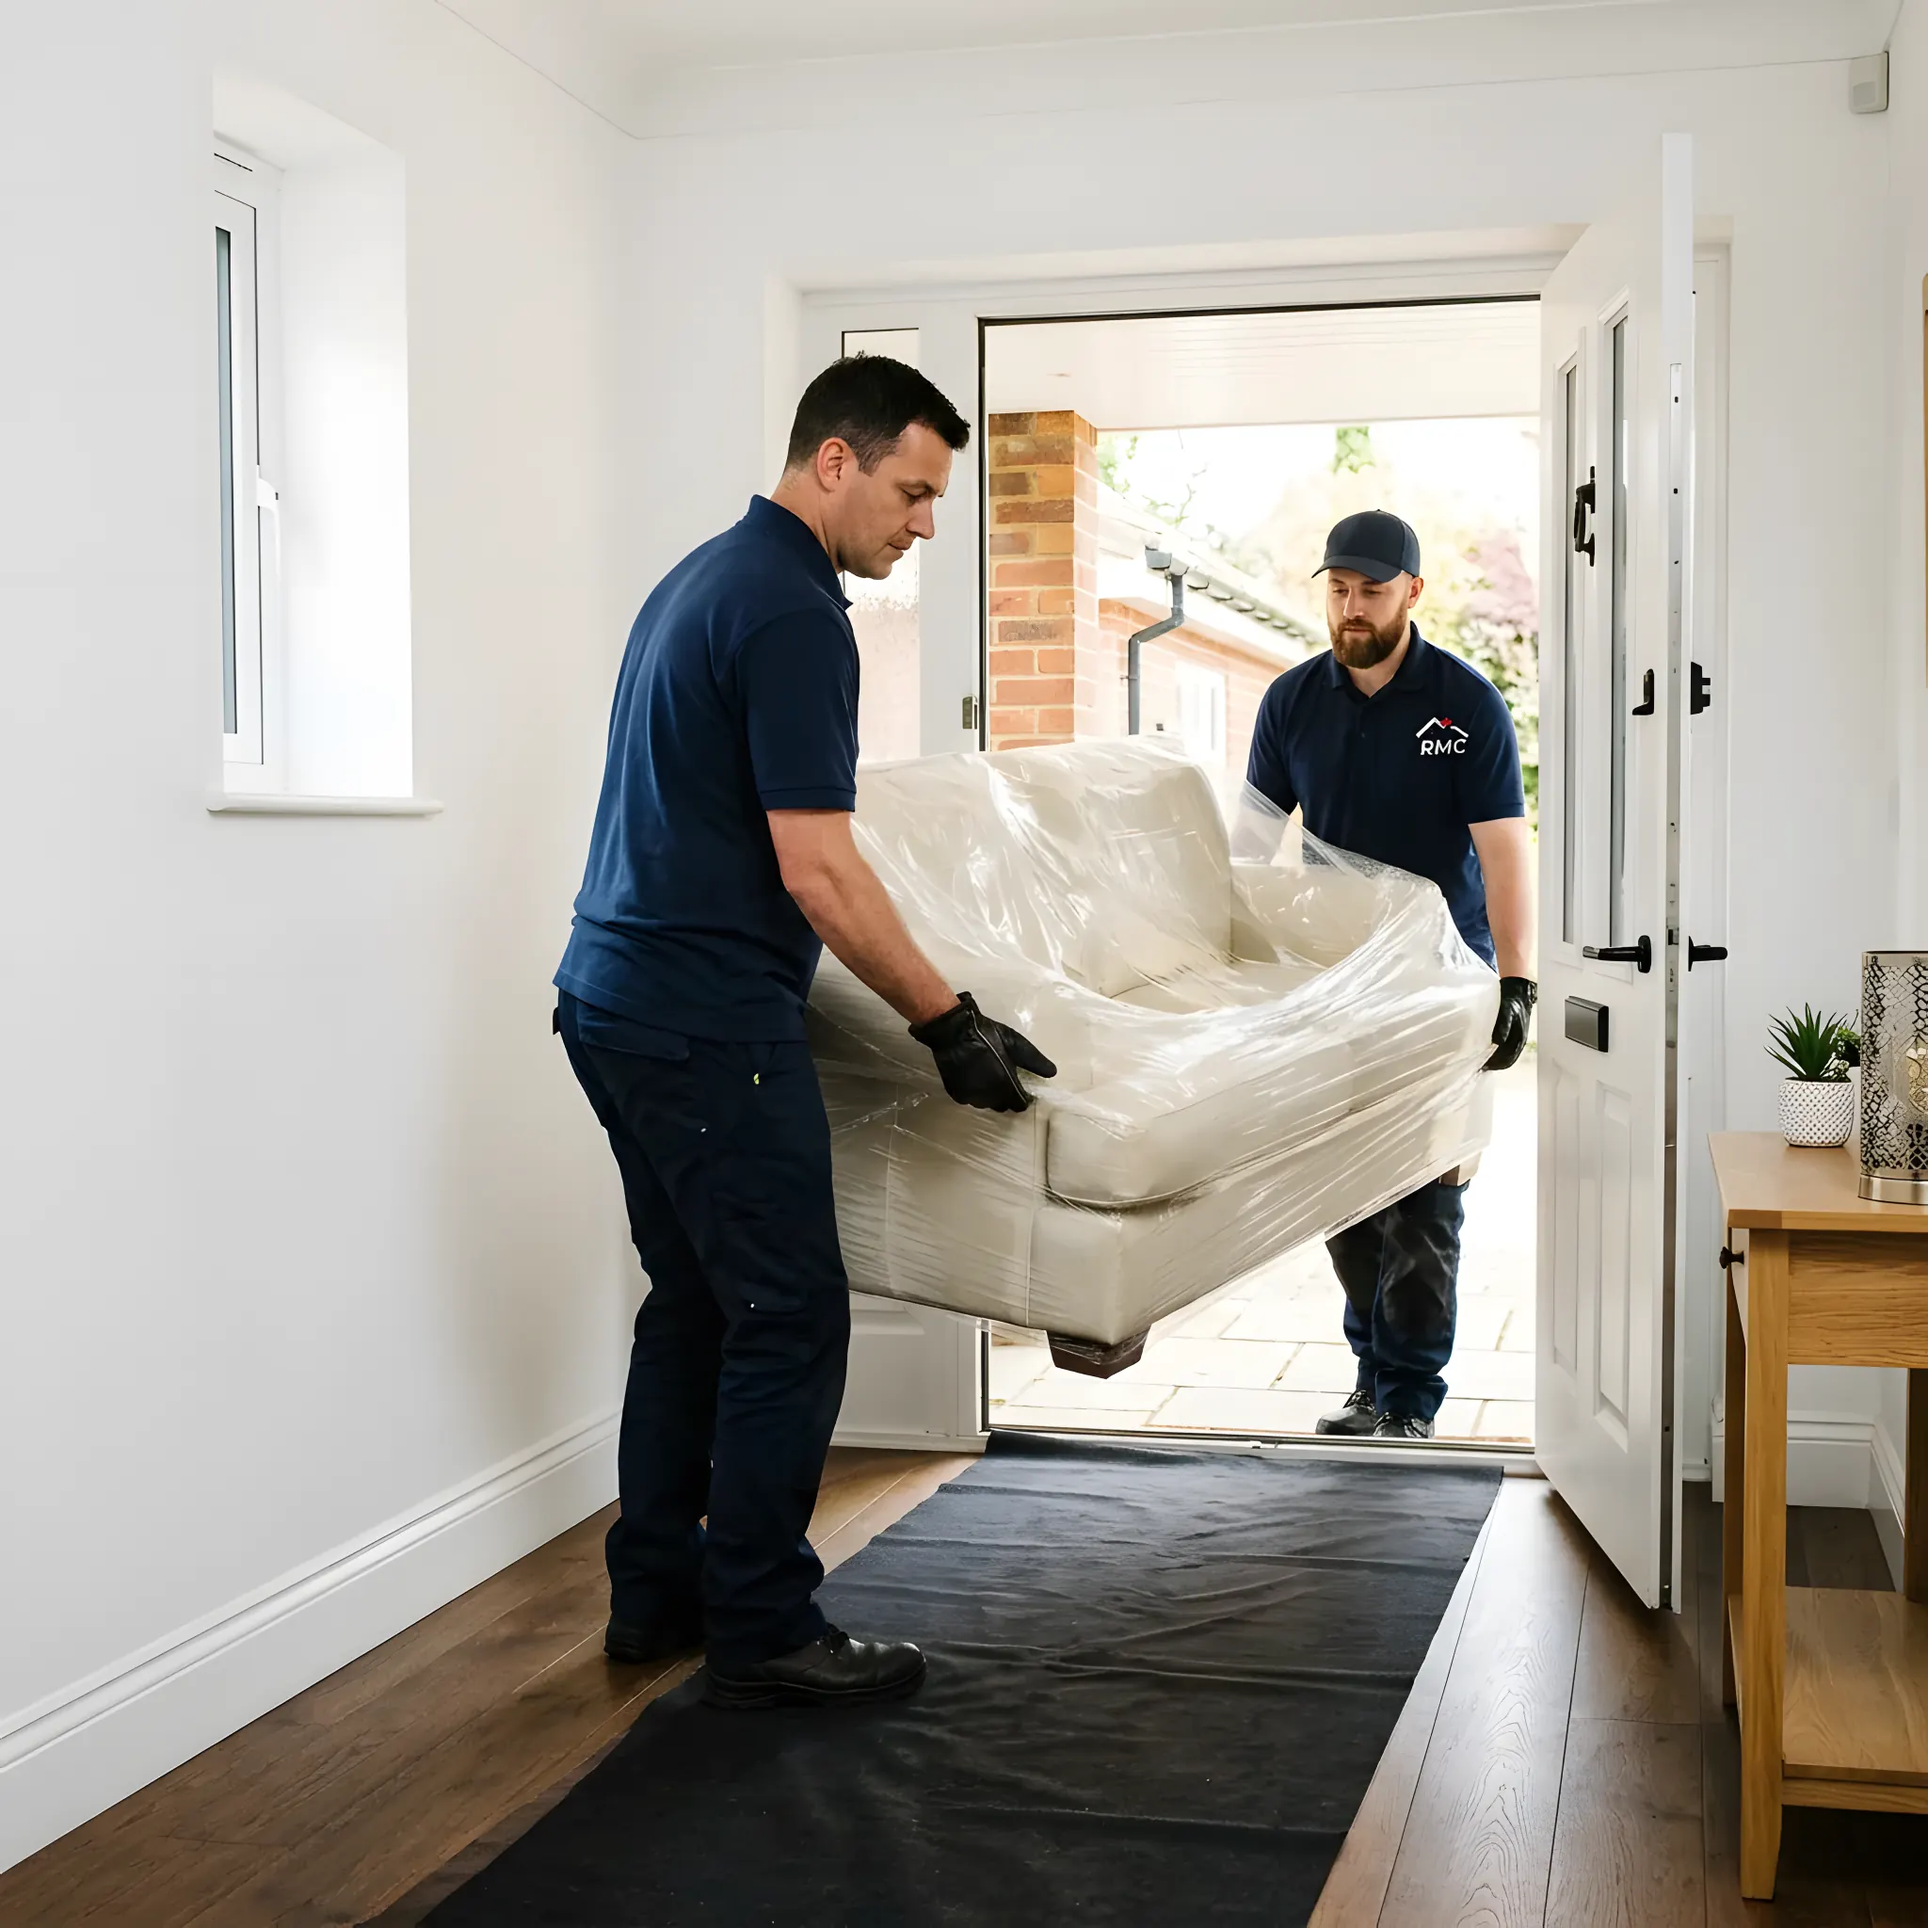
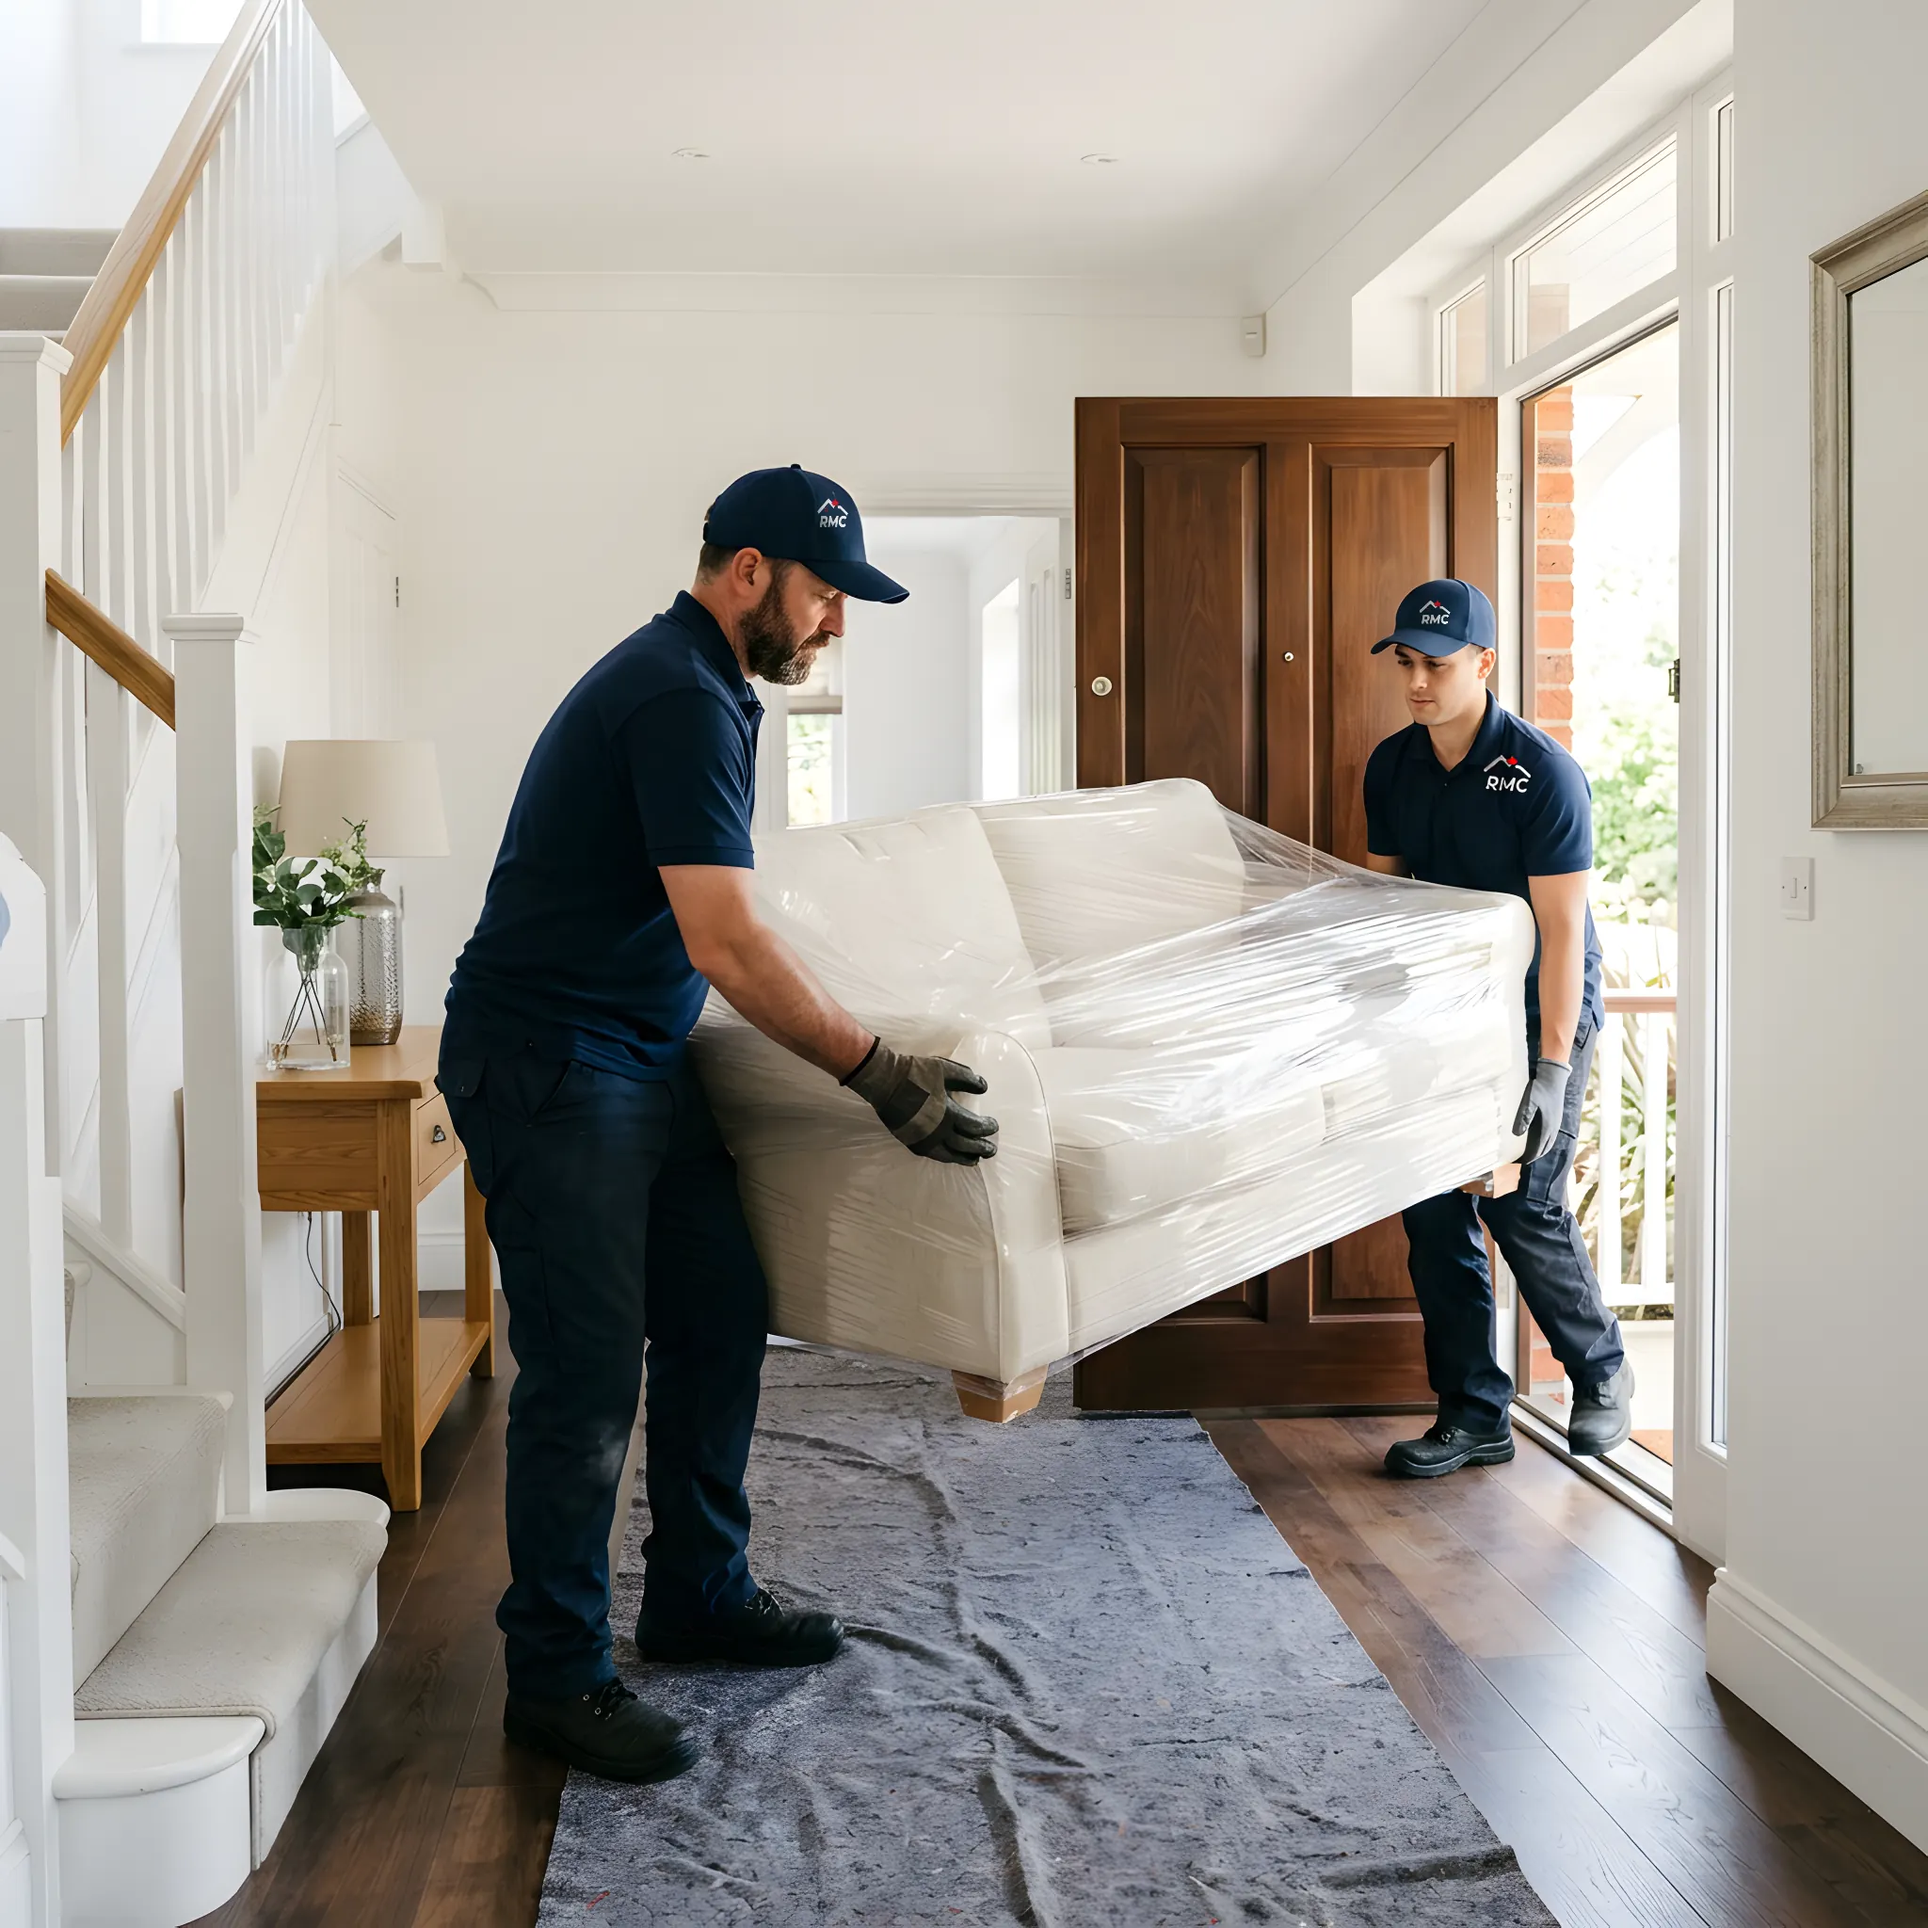
Crew wear RMC-branded caps in every photo
- Ten crew photos regenerated with the movers in navy caps; the RMC logo
  is printed on the front of every cap that faces the camera, plus the
  shirt logos, back prints and truck livery (with the motto) re-applied.
- Six service photos without caps (disassembly, appliance, junk removal,
  cleanouts, storage, heavy items) temporarily use capped photos until
  they can be regenerated.
- Sharp 2x versions for all of them.

Claude-Session: https://claude.ai/code/session_01P7c7Prais9oAUpcUYyeFU1

diff --git a/src/constants/services.js b/src/constants/services.js
@@ -120,8 +120,8 @@ export const SERVICES = [
     includes: ['Beds, desks and entertainment units', 'Hardware kept bagged and labelled', 'Reassembled at your new home', 'Available for homes and offices'],
     idealFor: ['Bed frames and bunk beds', 'Modular desks and shelving', 'Wardrobes and entertainment units'],
     related: ['furniture-appliance-moving', 'loading-unloading', 'residential'],
-    image: photo('bed-disassembly'),
-    imageAlt: 'A mover taking apart a wooden bed frame with a drill',
+    image: photo('couch-inside'),
+    imageAlt: 'Two movers in RMC caps carrying a plastic-wrapped sofa into a home',
   },
   {
     slug: 'furniture-appliance-moving',
@@ -139,8 +139,8 @@ export const SERVICES = [
     includes: ['Sofas, beds and dressers', 'Fridges, washers and dryers', 'Floor and doorway protection', 'Single-item or full-move service'],
     idealFor: ['New furniture deliveries', 'Moving a few large items', 'Appliance swaps'],
     related: ['heavy-oversized-items', 'furniture-disassembly-reassembly', 'residential'],
-    image: photo('armchair-ramp'),
-    imageAlt: 'A mover wheeling a plastic-wrapped armchair down a truck ramp',
+    image: photo('couch-into-home'),
+    imageAlt: 'Two movers carrying a wrapped sofa into a bright living room',
   },
   {
     slug: 'junk-removal',
@@ -158,8 +158,8 @@ export const SERVICES = [
     includes: ['Furniture removal', 'Moving debris removal', 'Household junk removal', 'Packing material removal'],
     idealFor: ['Move-outs and downsizing', 'Estate and property clean-outs', 'Clearing packing debris after a move'],
     related: ['cleanouts', 'residential', 'storage'],
-    image: photo('junk-removal'),
-    imageAlt: 'Two movers carrying an old armchair to a Real Moving Canada truck for removal',
+    image: photo('carrying-boxes'),
+    imageAlt: 'Two movers carrying boxes out through a home hallway',
   },
   {
     slug: 'cleanouts',
@@ -178,8 +178,8 @@ export const SERVICES = [
     includes: ['Household rooms, garages and basements', 'Attics and storage areas', 'Construction debris', 'Estate cleanouts'],
     idealFor: ['Estate and property sales', 'Renovation projects', 'Downsizing and decluttering'],
     related: ['junk-removal', 'storage', 'loading-unloading'],
-    image: photo('basement-cleanout'),
-    imageAlt: 'Two movers carrying boxes out of a cluttered basement',
+    image: photo('hallway-boxes'),
+    imageAlt: 'Two movers carrying boxes down a hallway',
   },
   {
     slug: 'moving-supplies',
@@ -216,8 +216,8 @@ export const SERVICES = [
     includes: ['Short- and long-term options', 'Items inventoried before storage', 'Storage between move-out and move-in', 'Delivery from storage when you’re ready'],
     idealFor: ['Closing dates that don’t match', 'Renovations and home staging', 'Temporary relocations'],
     related: ['packing-unpacking', 'loading-unloading', 'local-long-distance'],
-    image: photo('storage-units'),
-    imageAlt: 'A mover wheeling boxes into a clean storage unit',
+    image: photo('packing-supplies'),
+    imageAlt: 'Labelled moving boxes, blankets and a hand truck ready for storage',
   },
   {
     slug: 'heavy-oversized-items',
@@ -235,8 +235,8 @@ export const SERVICES = [
     includes: ['Pianos, pool tables, safes and hot tubs', 'Dollies, straps and rigging gear', 'Floor, wall and doorway protection', 'Access assessed at both ends'],
     idealFor: ['Upright and grand pianos', 'Gun safes and heavy cabinets', 'Gym equipment and hot tubs'],
     related: ['furniture-appliance-moving', 'loading-unloading', 'residential'],
-    image: photo('piano-moving'),
-    imageAlt: 'Three movers moving a blanket-wrapped piano on a dolly',
+    image: photo('crew-at-truck'),
+    imageAlt: 'A three-person moving crew beside an open truck',
   },
 ];
 
